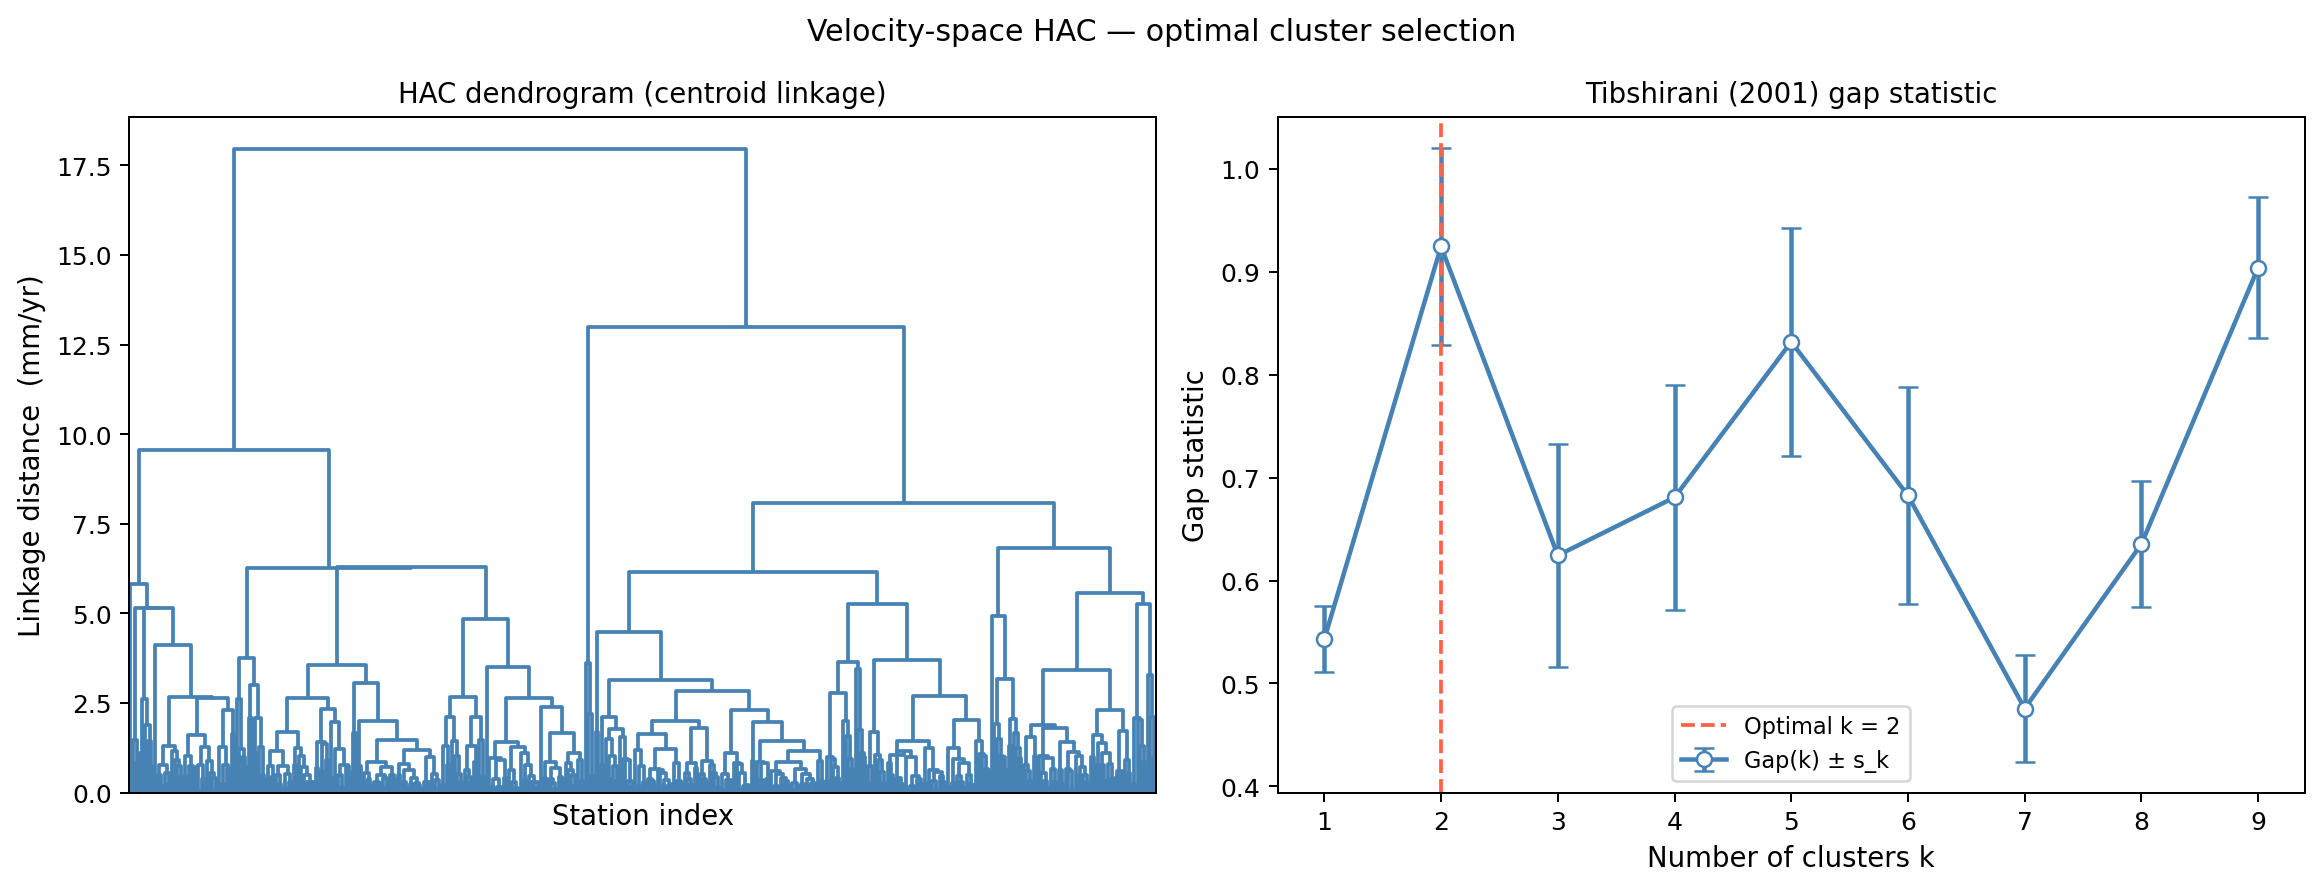
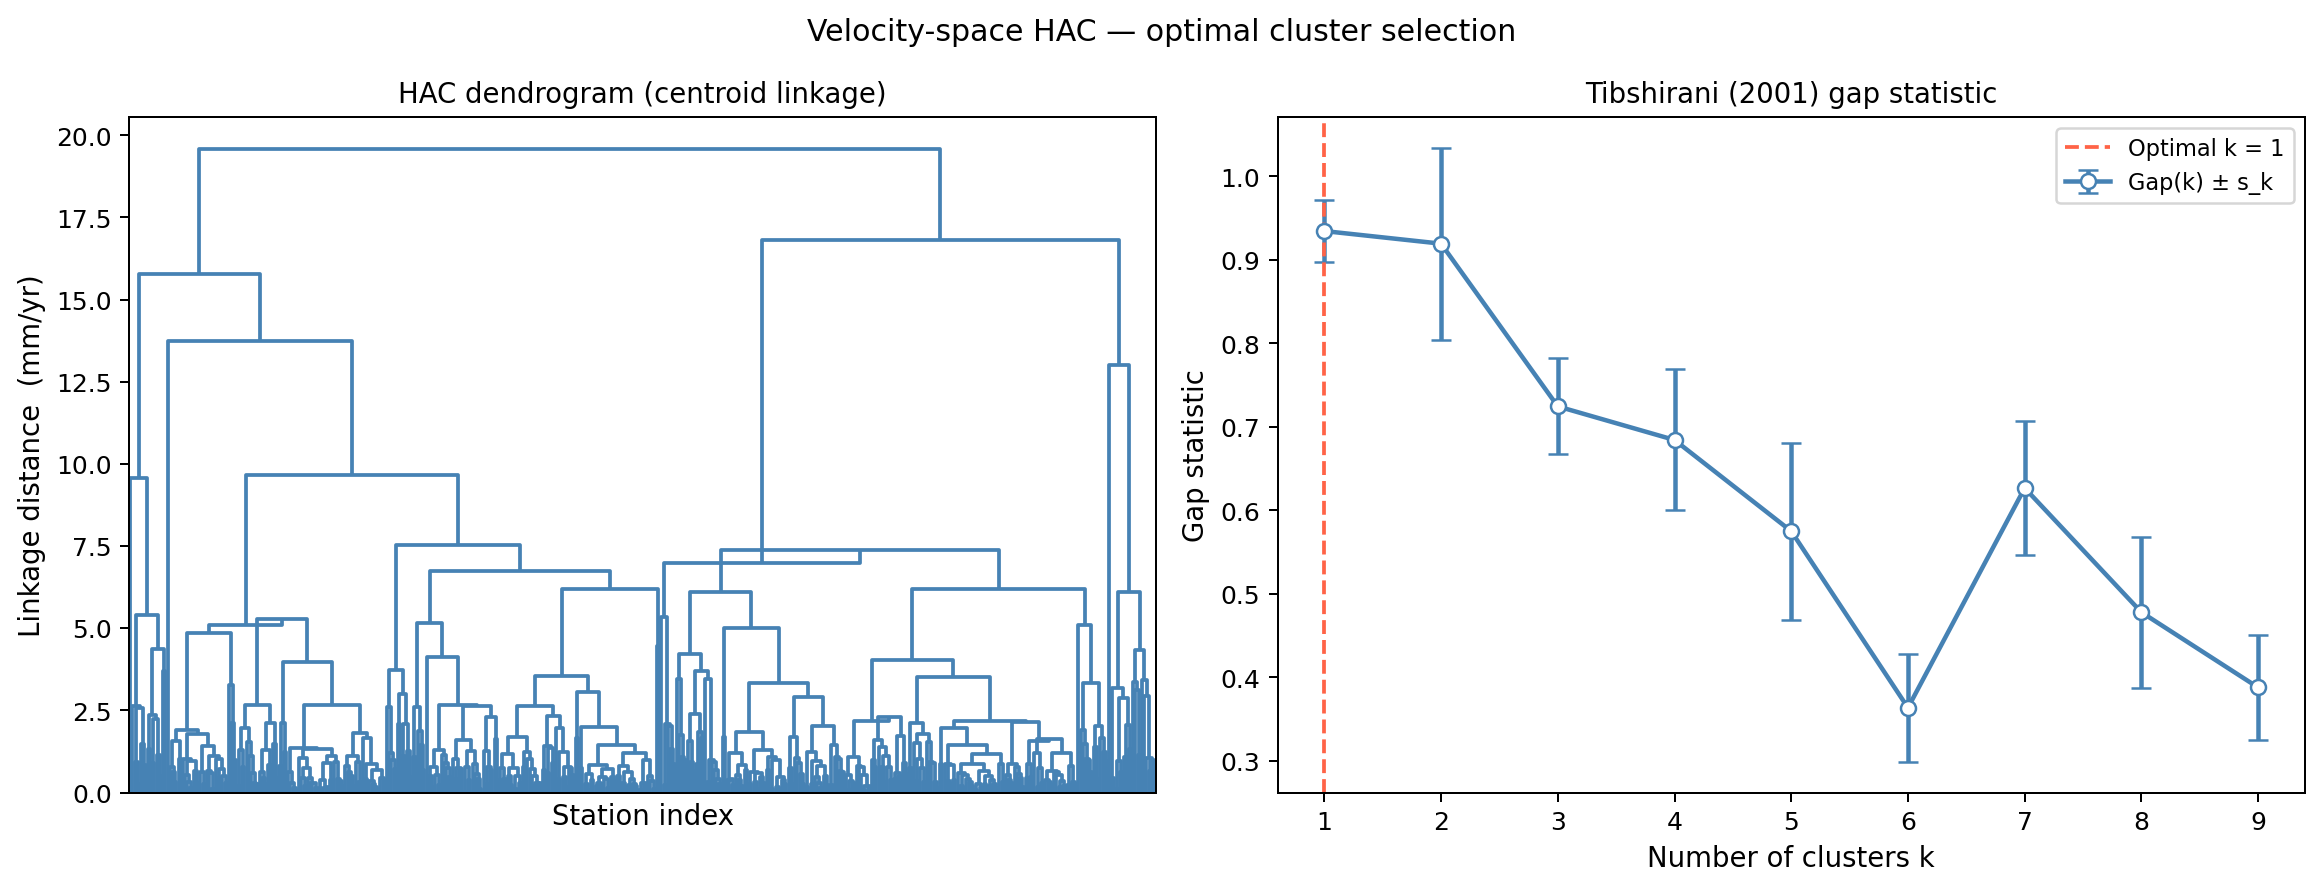
fix(clustering): geographic initialization for subduction-zone comparison
In strongly-loaded subduction datasets (e.g. SW Japan) velocity-HAC init
converges to iso-velocity bands rather than tectonic plates because
interseismic elastic loading creates large within-block velocity variance.

Changes:
- EulerVectorClustering.cluster() now accepts init_labels to bypass the
  HAC initialization with a caller-supplied partition
- New init="multiscale" runs 5 deterministic + N random restarts and
  keeps the minimum-chi² result
- plot_japan_clusters.py:
  - Uses all 468 stations (max_sigma=99) to match the paper
  - _geo_init_labels() seeds clusters by velocity regime (Ryukyu
    high-loading zone / fast-eastward zone / main block) so Figs 5, 6, 7
    converge to the geographically coherent local minimum (chi²=240935)
    with Euler pole inside Japan (38°N, 142°E) vs the chi²-optimal but
    physically uninterpretable iso-velocity bands solution (chi²=204939)

diff --git a/scripts/plot_japan_clusters.py b/scripts/plot_japan_clusters.py
@@ -28,7 +28,7 @@ from scipy.cluster.hierarchy import linkage
 from gps_cluster.application.euler_clustering import EulerVectorClustering
 from gps_cluster.application.preprocess import preprocess
 from gps_cluster.application.velocity_clustering import VelocityHACClustering
-from gps_cluster.domain.services.euler_math import euler_vector_to_pole, predict_velocity
+from gps_cluster.domain.services.euler_math import euler_vector_to_pole, predict_velocity, total_chi_squared
 from gps_cluster.infrastructure.readers.velocity_csv import read_velocity_file
 
 # ── paths ────────────────────────────────────────────────────────────────────
@@ -39,11 +39,67 @@ OUT.mkdir(parents=True, exist_ok=True)
 
 # ── load data ─────────────────────────────────────────────────────────────────
 raw      = read_velocity_file(DATA)
-stations = preprocess(raw)
+# Paper (Savage 2018) uses all 469 stations from the supplementary table with
+# minimal preprocessing.  Use max_sigma=99 to keep all 468 stations we have.
+stations = preprocess(raw, max_sigma=99, zscore_threshold=99)
 print(f"Stations: raw={len(raw)}, clean={len(stations)}")
 
 EXTENT = [128.0, 139.5, 31.0, 38.5]   # [lon_min, lon_max, lat_min, lat_max]
 CMAP   = plt.colormaps["tab10"]
+
+
+def _geo_init_labels(stations_list, k):
+    """Geographic block initialization for SW Japan (Savage 2018 comparison).
+
+    In strongly loaded subduction-zone datasets the velocity-HAC initialization
+    converges to iso-velocity bands rather than tectonic plates.  This function
+    seeds clusters by velocity regime so the iterative Euler algorithm starts
+    in the geographically coherent basin:
+
+      * Vn < -20 mm/yr → Ryukyu high-loading zone (separate seed)
+      * Ve > +20 mm/yr (and Vn >= -20) → fast-eastward zone (separate seed)
+      * Remainder → main block
+
+    For k > 3 the main block is further split by velocity-HAC.
+    """
+    import numpy as np
+    from scipy.cluster.hierarchy import fcluster, linkage
+
+    n = len(stations_list)
+    vns = np.array([s.velocity.vn for s in stations_list])
+    ves = np.array([s.velocity.ve  for s in stations_list])
+
+    if k == 1 or n < 10:
+        X = np.array([[s.velocity.ve, s.velocity.vn] for s in stations_list])
+        return fcluster(linkage(X, method="centroid"), t=k, criterion="maxclust")
+
+    # Identify the two distinctive velocity regimes
+    is_loading  = vns < -20.0                        # Ryukyu extreme southward
+    is_fast_e   = (~is_loading) & (ves > 20.0)      # fast-eastward (not already loading)
+    is_main     = ~(is_loading | is_fast_e)
+
+    labels = np.zeros(n, dtype=int)
+    labels[is_main]    = 1
+    labels[is_loading] = 2
+    if k == 2:
+        labels[is_fast_e] = 1   # merge fast-east into main for k=2
+        return labels
+    labels[is_fast_e]  = 3
+    if k == 3:
+        return labels
+
+    # k >= 4: further split the main block by velocity HAC
+    main_idx = np.where(is_main)[0]
+    X_main = np.array([[stations_list[i].velocity.ve,
+                        stations_list[i].velocity.vn] for i in main_idx])
+    sub = fcluster(linkage(X_main, method="centroid"),
+                   t=k - 2, criterion="maxclust")
+    labels[main_idx] = sub + 2                       # shift past clusters 1, 2
+    # Renumber labels 1..k consecutively
+    for new_id, old_id in enumerate(np.unique(labels), start=1):
+        labels[labels == old_id] = -new_id
+    labels = -labels
+    return labels
 
 # ── helpers ───────────────────────────────────────────────────────────────────
 
@@ -192,7 +248,9 @@ plt.close(fig)
 # Figure 4 — Euler chi² vs k (elbow)
 # ═══════════════════════════════════════════════════════════════════════════════
 print("Plotting Fig 4: Euler chi² vs k …")
-evc = EulerVectorClustering()
+# "multiscale" tries 5 deterministic + 20 random initializations and keeps the
+# minimum-chi² result — more robust in datasets with strong interseismic loading.
+evc = EulerVectorClustering(init="multiscale", n_restarts=20, random_seed=0)
 k_euler, ftest = evc.find_optimal_k(stations, max_k=9)
 print(f"  F-test optimal k = {k_euler}")
 
@@ -224,7 +282,8 @@ plt.close(fig)
 # Figure 5 — Map: k=3 clusters + Euler poles  (main comparison figure)
 # ═══════════════════════════════════════════════════════════════════════════════
 print("Plotting Fig 5: k=3 cluster map …")
-clusters3 = evc.cluster(stations, k=3)
+clusters3 = evc.cluster(stations, k=3,
+                         init_labels=_geo_init_labels(stations, 3))
 
 fig, ax = plt.subplots(figsize=(11, 8),
                        subplot_kw={"projection": ccrs.Mercator()})
@@ -249,7 +308,10 @@ legend_handles.append(Line2D([0], [0], lw=0, marker="*",
                               markersize=11, markeredgecolor="k", markeredgewidth=0.5,
                               color="gray", label="Euler pole (if in region)"))
 ax.legend(handles=legend_handles, loc="upper left", fontsize=8, framealpha=0.9)
-ax.set_title("Euler-vector clustering  k = 3\n"
+chi2_k3 = sum(total_chi_squared(c.stations, c.euler_vector)
+              for c in clusters3 if c.euler_vector is not None)
+dof_k3  = 2 * len(stations) - 3 * 3
+ax.set_title(f"Euler-vector clustering  k = 3   χ²_red = {chi2_k3/dof_k3:.0f}\n"
              "Southwest Japan GPS velocities (ITRF2000)", fontsize=11)
 fig.tight_layout()
 fig.savefig(OUT / "fig5_clusters_k3.png", dpi=180, bbox_inches="tight")
@@ -307,7 +369,8 @@ axes = axes.flatten()
 
 for ax, k in zip(axes, [2, 3, 4, 5]):
     _basemap(ax)
-    clusters_k = evc.cluster(stations, k=k)
+    clusters_k = evc.cluster(stations, k=k,
+                              init_labels=_geo_init_labels(stations, k))
     for c in clusters_k:
         col  = CMAP(c.id - 1)
         pole = euler_vector_to_pole(c.euler_vector)

diff --git a/src/gps_cluster/application/euler_clustering.py b/src/gps_cluster/application/euler_clustering.py
@@ -68,27 +68,71 @@ class EulerVectorClustering:
         Maximum number of reassignment iterations per k.
     min_stations:
         Minimum stations required to invert a valid Euler vector for a cluster.
-        Clusters that fall below this threshold are merged into the nearest
-        cluster by velocity residual.
+    init:
+        Initialization strategy for the iterative algorithm.
+        ``"velocity"`` (default) — velocity-space HAC; finds the global chi²
+        minimum but may converge to velocity-magnitude bands in datasets where
+        interseismic elastic loading dominates (e.g. subduction zones).
+        ``"multiscale"`` — runs *n_restarts* random restarts plus geographic
+        and velocity initializations; returns the partition with minimum total
+        chi²; more expensive but more robust.
+    n_restarts:
+        Number of additional random restarts used when ``init="multiscale"``.
+    random_seed:
+        Seed for random restarts.
     """
 
-    def __init__(self, max_iter: int = 100, min_stations: int = _MIN_STATIONS_PER_CLUSTER) -> None:
+    def __init__(
+        self,
+        max_iter: int = 100,
+        min_stations: int = _MIN_STATIONS_PER_CLUSTER,
+        init: str = "velocity",
+        n_restarts: int = 20,
+        random_seed: int = 0,
+    ) -> None:
         self.max_iter = max_iter
         self.min_stations = min_stations
+        self.init = init
+        self.n_restarts = n_restarts
+        self.random_seed = random_seed
 
     # ------------------------------------------------------------------
     # Public API
     # ------------------------------------------------------------------
 
-    def cluster(self, stations: list[GpsStation], k: int) -> list[VelocityCluster]:
+    def cluster(
+        self,
+        stations: list[GpsStation],
+        k: int,
+        init_labels: np.ndarray | None = None,
+    ) -> list[VelocityCluster]:
         """Partition stations into k clusters via Euler-vector iteration.
+
+        Parameters
+        ----------
+        stations:
+            List of GPS stations to cluster.
+        k:
+            Number of clusters.
+        init_labels:
+            Optional 1-indexed integer array of length ``len(stations)`` that
+            provides the initial cluster assignment.  When supplied, the
+            ``init`` strategy is ignored.  Useful for passing domain-specific
+            starting partitions (e.g. geographic zones for subduction-zone data
+            where the default velocity-HAC initialization converges to
+            iso-velocity bands rather than tectonic plates).
 
         Returns a list of VelocityCluster objects with euler_vector set.
         """
         if k >= len(stations):
             raise ValueError(f"k={k} must be less than the number of stations ({len(stations)})")
 
-        labels = self._initial_labels(stations, k)
+        if init_labels is not None:
+            labels = np.asarray(init_labels, dtype=int)
+        elif self.init == "multiscale":
+            labels = self._multiscale_init(stations, k)
+        else:
+            labels = self._initial_labels(stations, k)
         labels = self._iterate(stations, labels, k)
         return self._build_clusters(stations, labels, k)
 
@@ -148,6 +192,67 @@ class EulerVectorClustering:
         X = np.array([[s.velocity.ve, s.velocity.vn] for s in stations])
         Z = linkage(X, method="centroid", metric="euclidean")
         return fcluster(Z, t=k, criterion="maxclust")
+
+    def _candidate_inits(self, stations: list[GpsStation], k: int) -> list[np.ndarray]:
+        """Return a list of candidate initial label arrays for multiscale init."""
+        from gps_cluster.domain.services.euler_math import invert_euler_vector, predict_velocity
+
+        candidates: list[np.ndarray] = []
+        n = len(stations)
+
+        # 1. Velocity HAC (centroid)
+        X_vel = np.array([[s.velocity.ve, s.velocity.vn] for s in stations])
+        Z = linkage(X_vel, method="centroid")
+        candidates.append(fcluster(Z, t=k, criterion="maxclust"))
+
+        # 2. Velocity HAC (ward)
+        Z = linkage(X_vel, method="ward")
+        candidates.append(fcluster(Z, t=k, criterion="maxclust"))
+
+        # 3. Geographic HAC (ward on lon/lat)
+        X_geo = np.array([[s.position.lon, s.position.lat] for s in stations])
+        Z = linkage(X_geo, method="ward")
+        candidates.append(fcluster(Z, t=k, criterion="maxclust"))
+
+        # 4. Residual HAC: velocity residuals relative to single best-fit Euler vector
+        k1_euler = invert_euler_vector(stations)
+        X_res = np.array([
+            [s.velocity.ve - predict_velocity(s, k1_euler)[0],
+             s.velocity.vn - predict_velocity(s, k1_euler)[1]]
+            for s in stations
+        ])
+        Z = linkage(X_res, method="ward")
+        candidates.append(fcluster(Z, t=k, criterion="maxclust"))
+
+        # 5. Combined velocity + geographic (scaled equally)
+        v_scale = max(X_vel.std(axis=0).max(), 1e-9)
+        g_scale = max(X_geo.std(axis=0).max(), 1e-9)
+        X_comb = np.hstack([X_vel / v_scale, X_geo / g_scale])
+        Z = linkage(X_comb, method="ward")
+        candidates.append(fcluster(Z, t=k, criterion="maxclust"))
+
+        # 6. Random restarts
+        rng = np.random.default_rng(self.random_seed)
+        for _ in range(self.n_restarts):
+            lbl = rng.integers(1, k + 1, size=n)
+            candidates.append(lbl)
+
+        return candidates
+
+    def _multiscale_init(self, stations: list[GpsStation], k: int) -> np.ndarray:
+        """Try many initializations; return the one with minimum total chi² after convergence."""
+        best_labels: np.ndarray | None = None
+        best_chi2 = np.inf
+
+        for init_labels in self._candidate_inits(stations, k):
+            labels = self._iterate(stations, init_labels.copy(), k)
+            clusters = self._build_clusters(stations, labels, k)
+            chi2 = self._total_chi2(clusters)
+            if chi2 < best_chi2:
+                best_chi2 = chi2
+                best_labels = labels.copy()
+
+        return best_labels  # type: ignore[return-value]
 
     def _euler_per_cluster(
         self, stations: list[GpsStation], labels: np.ndarray, k: int
